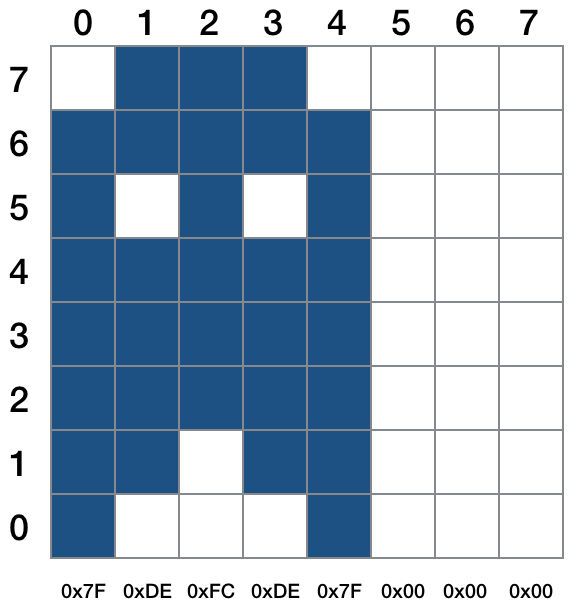
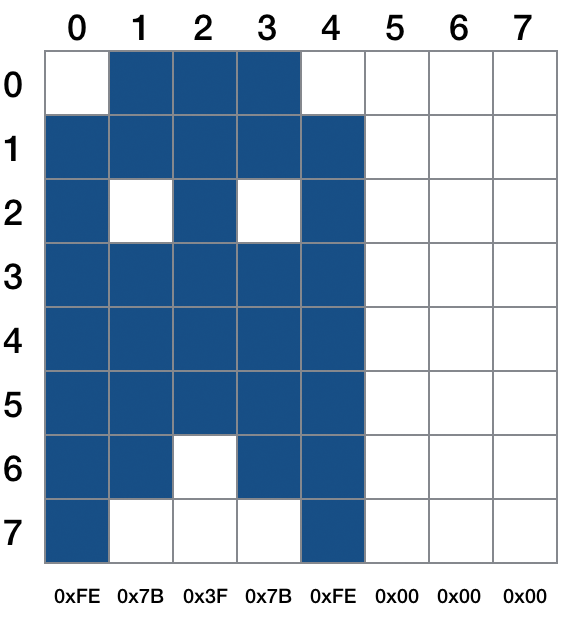
Update Read Me

Changed region(s): [[0.0, 0.0, 0.9947, 0.987]]

diff --git a/README.md b/README.md
@@ -6,6 +6,8 @@ Hardware driver for [Adafruit 1.2-inch monochrome LED matrix display](http://www
 
 The class incorporates its own Ascii character set, from 32 (&nbsp;) to 127 (&deg;). This character set is now proportionally spaced for a more aesthectically pleasing output. Code built using version 1.0.0 should be checked, especially if you are assuming non-proportionally spaced characters. Ascii code 127 is now a degrees sign, not a copyright symbol.
 
+The class also supports up to 32 user-definable characters.
+
 The class’ API remains almost unchanged. The optional angle passed into the second parameter of *init()* may now be a value in degrees, but this will not cause problems for existing code. However, *displayIcon()* now takes an array of 1-8 8-bit values, each specifying a *column* (bit 7 at the top) of the character, not a row.
 
 ## Class Usage
@@ -46,7 +48,7 @@ led.init(15, 2);
 led.init(8, -90);
 ```
 
-## displayChar(*[asciiValue]*)
+## displayChar(*asciiValue[, center]*)
 
 Call *displayChar()* to write an Ascii character to the matrix. The value is optional; if no value is specified, the display will be set to display a space character. Unless the matrix is set to inverse video mode, this has the same effect as *clearDisplay()*.
 
@@ -56,20 +58,22 @@ Call *displayChar()* to write an Ascii character to the matrix. The value is opt
 led.displayChar(65);
 ```
 
-## displayIcon(*glyphMatrix*)
+## displayIcon(*glyphMatrix[, center]*)
 
-Call *displayIcon()* to write an non-standard character or graphic to the matrix. The character is passed as an array containing 1 - 8 integer values, each a bit pattern for the *column(s)* making up the character, from top to bottom (ie. bit 7 is the topmost pixel of the column, bit 0 is the bottom pixel of the column).
+Call *displayIcon()* to write an non-standard character or graphic to the matrix. The character is passed as an array containing one to eight 8-bit integer values, each value a bit pattern for one of the *columns* making up the character. Each column value’s bits are set or unset according to the diagram below, ie. bit 0 is the topmost pixel of the column and bit 7 is the lowest pixel of the column.
 
 ![Glyph Matrix](./glyph.png)
 
-The graphic above shows a custom character. It’s formed from five 8-bit values, each representing one of the five columns that make up the character. These five values, shown below each column, would form the array passed into *displayIcon()*.
+The custom character shown above is formed from five 8-bit values, each representing one of the five columns that make up the character. These five values, shown below each column, form the array passed into *displayIcon()*.
 
 If no array is passed, or an empty or incomplete array is passed, the function returns with no effect.
+
+If `true` is passed into the optional parameter *center*, the glyph will be centered on the matrix.
 
 ```squirrel
 // Display a smiley on the matrix
 
-local smiley = [0x3C, 0x42, 0xA5, 0x81, 0xA5, 0x99, 0x42, 0x3C];
+local smiley = [0x3C, 0x42, 0x95, 0xA1, 0xA1, 0x95, 0x42, 0x3C];
 led.displayIcon(smiley);
 ```
 
@@ -82,6 +86,23 @@ Call *displayLine()* to write a string to the matrix. The characters (one or mor
 
 local text = "The quick brown fox jumped over the lazy dog";
 led.displayline(text);
+```
+
+## defineChar(*asciiCode, glyphMatrix*)
+
+You can save user-defined characters for future use using *defineChar()*. The first parameter is a numeric code to identify the character: permitted values are 0 through 31.
+
+The *glyphMatrix* parameter takes an array containing one to eight 8-bit integer values, each value a bit pattern for one of the *columns* making up the character. Each column value’s bits are set or unset according to the diagram below, ie. bit 0 is the topmost pixel of the column and bit 7 is the lowest pixel of the column. See *displayIcon()*, above, for further guidance on forming new characters.
+
+Once defined a user-defined character can be presented using *displayChar()* passing in its character code as the *asciiValue* parameter. You can add your characters to a string to be presented by *displayLine()* by adding it as a single-character string:
+
+```
+local smiley = [0x3C, 0x42, 0x95, 0xA1, 0xA1, 0x95, 0x42, 0x3C];
+local smileyChar = 0;
+led.defineChar(smileyChar, smiley);
+
+local displayString = "I'm being chased by a...     + smileyChar.tochar() + "    !!!";
+led.displayLine(displayString);
 ```
 
 ## clearDisplay()
